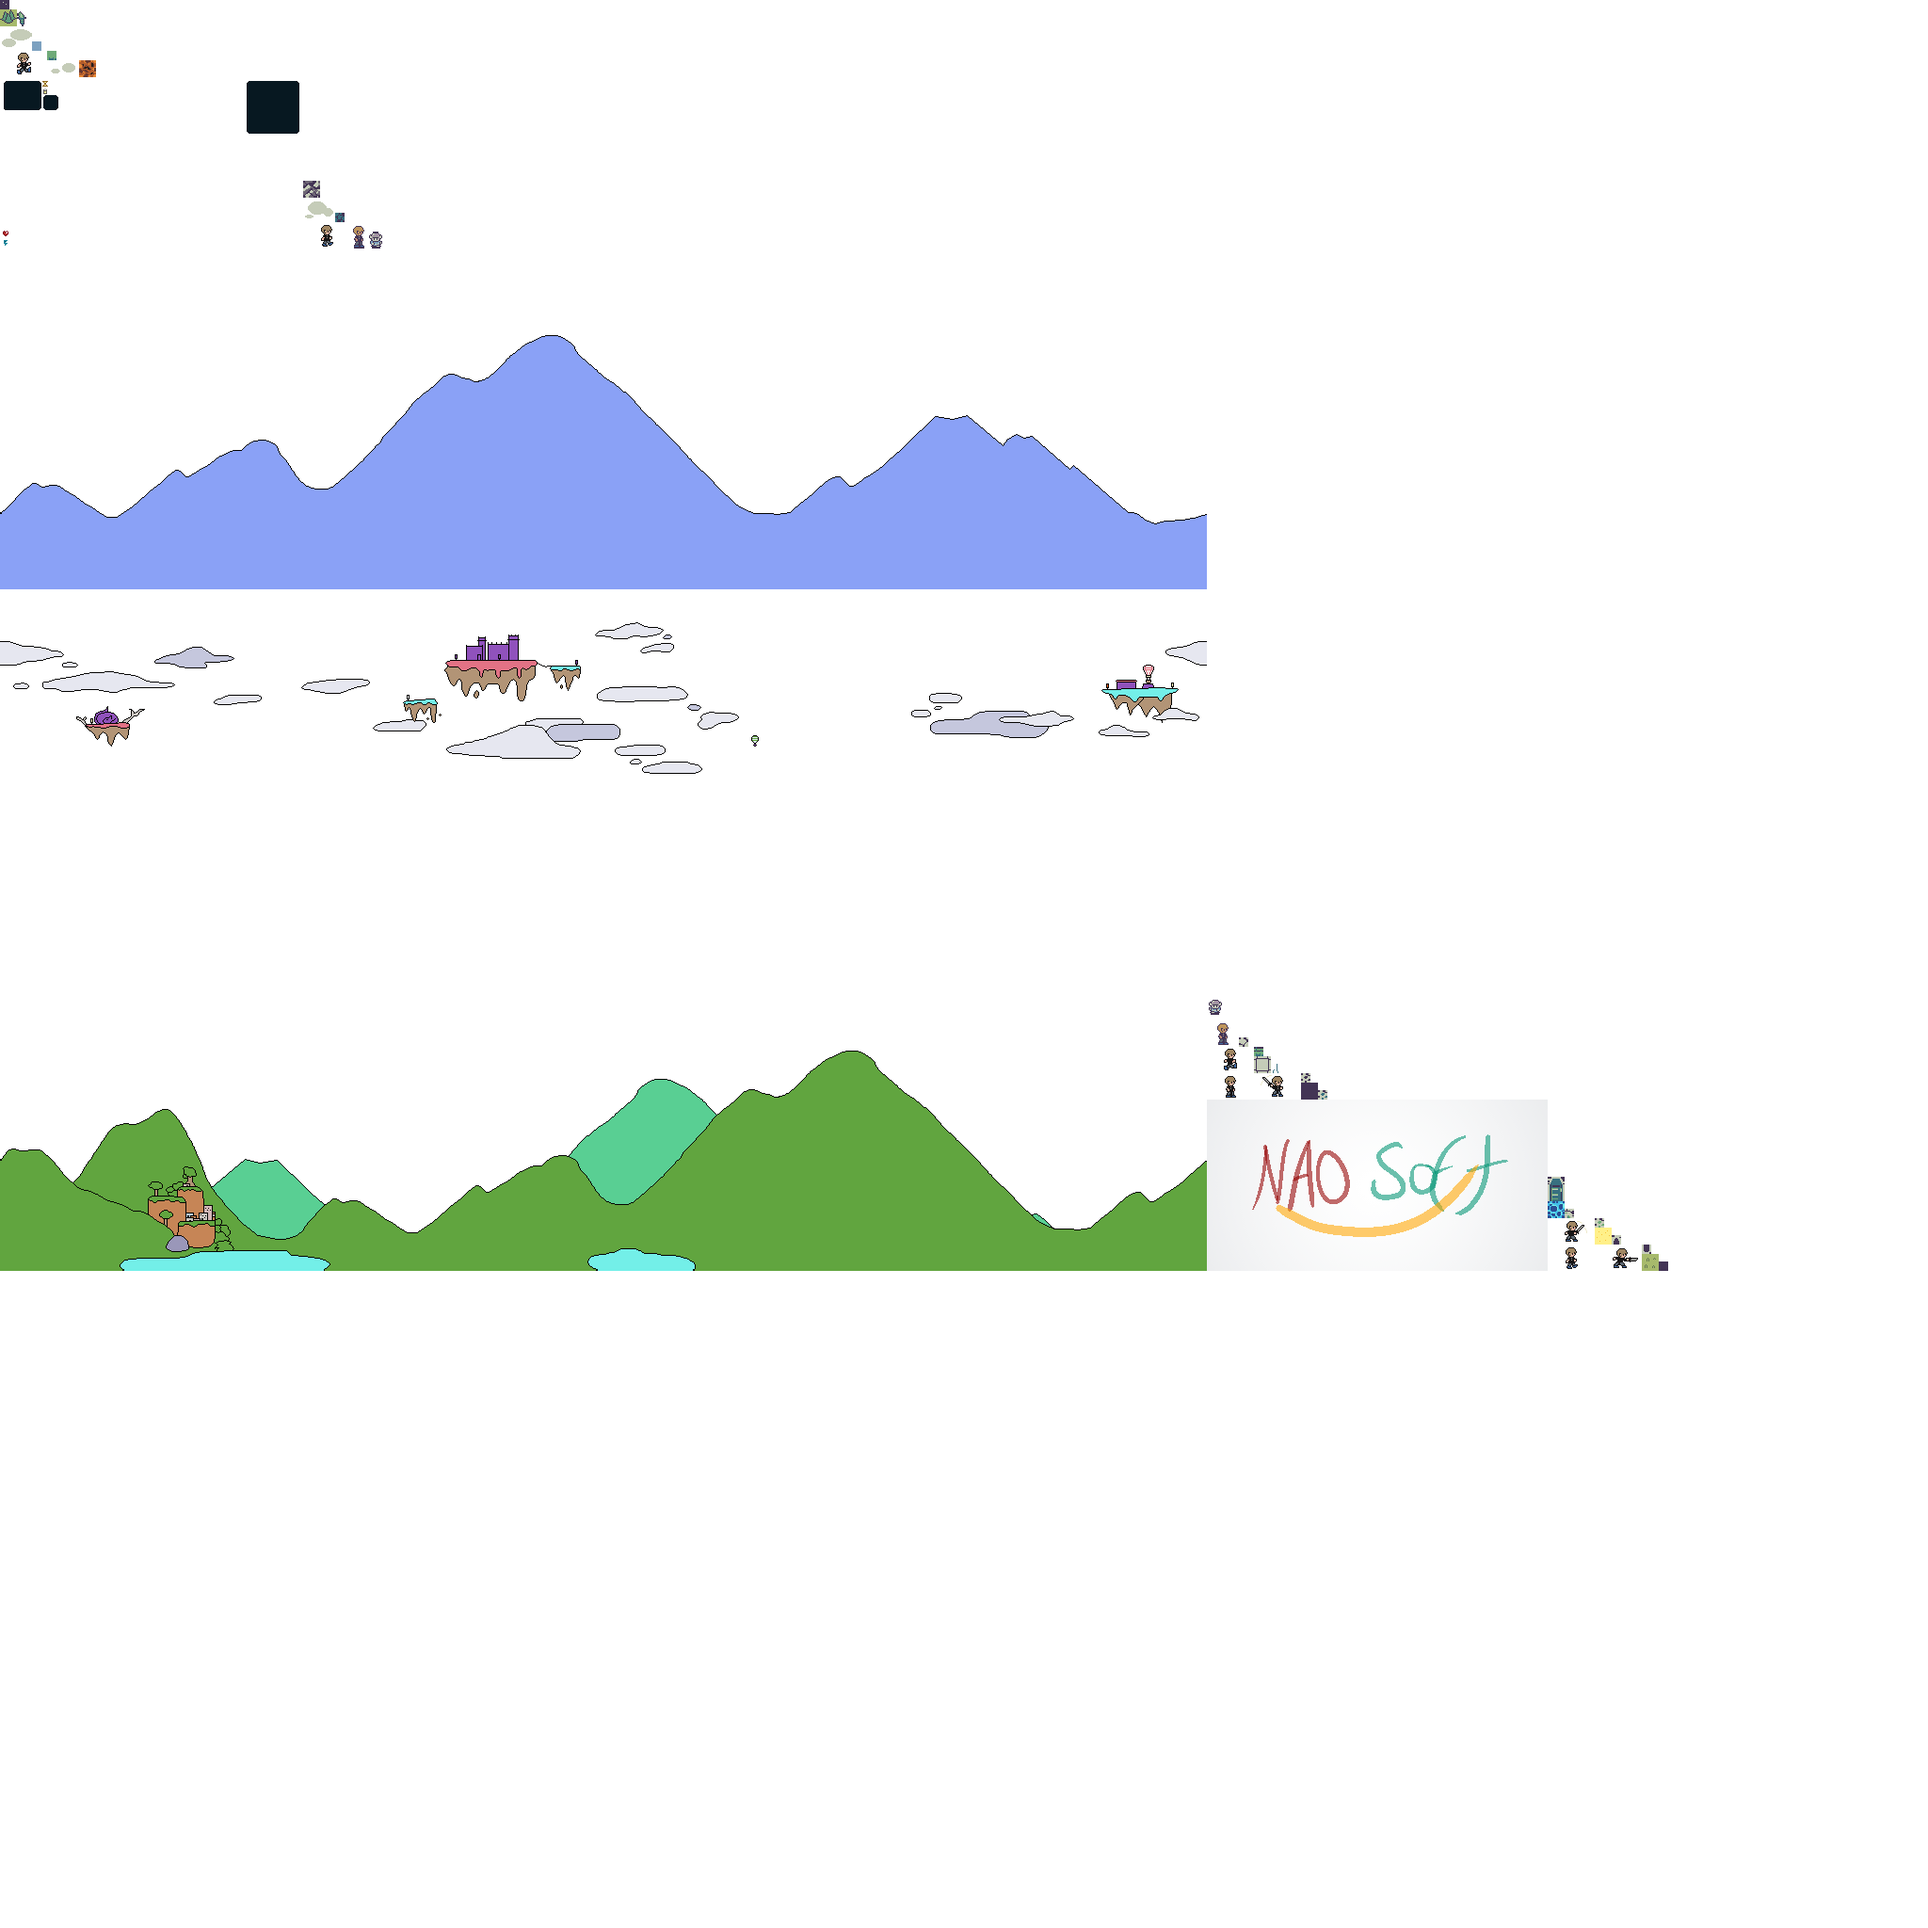
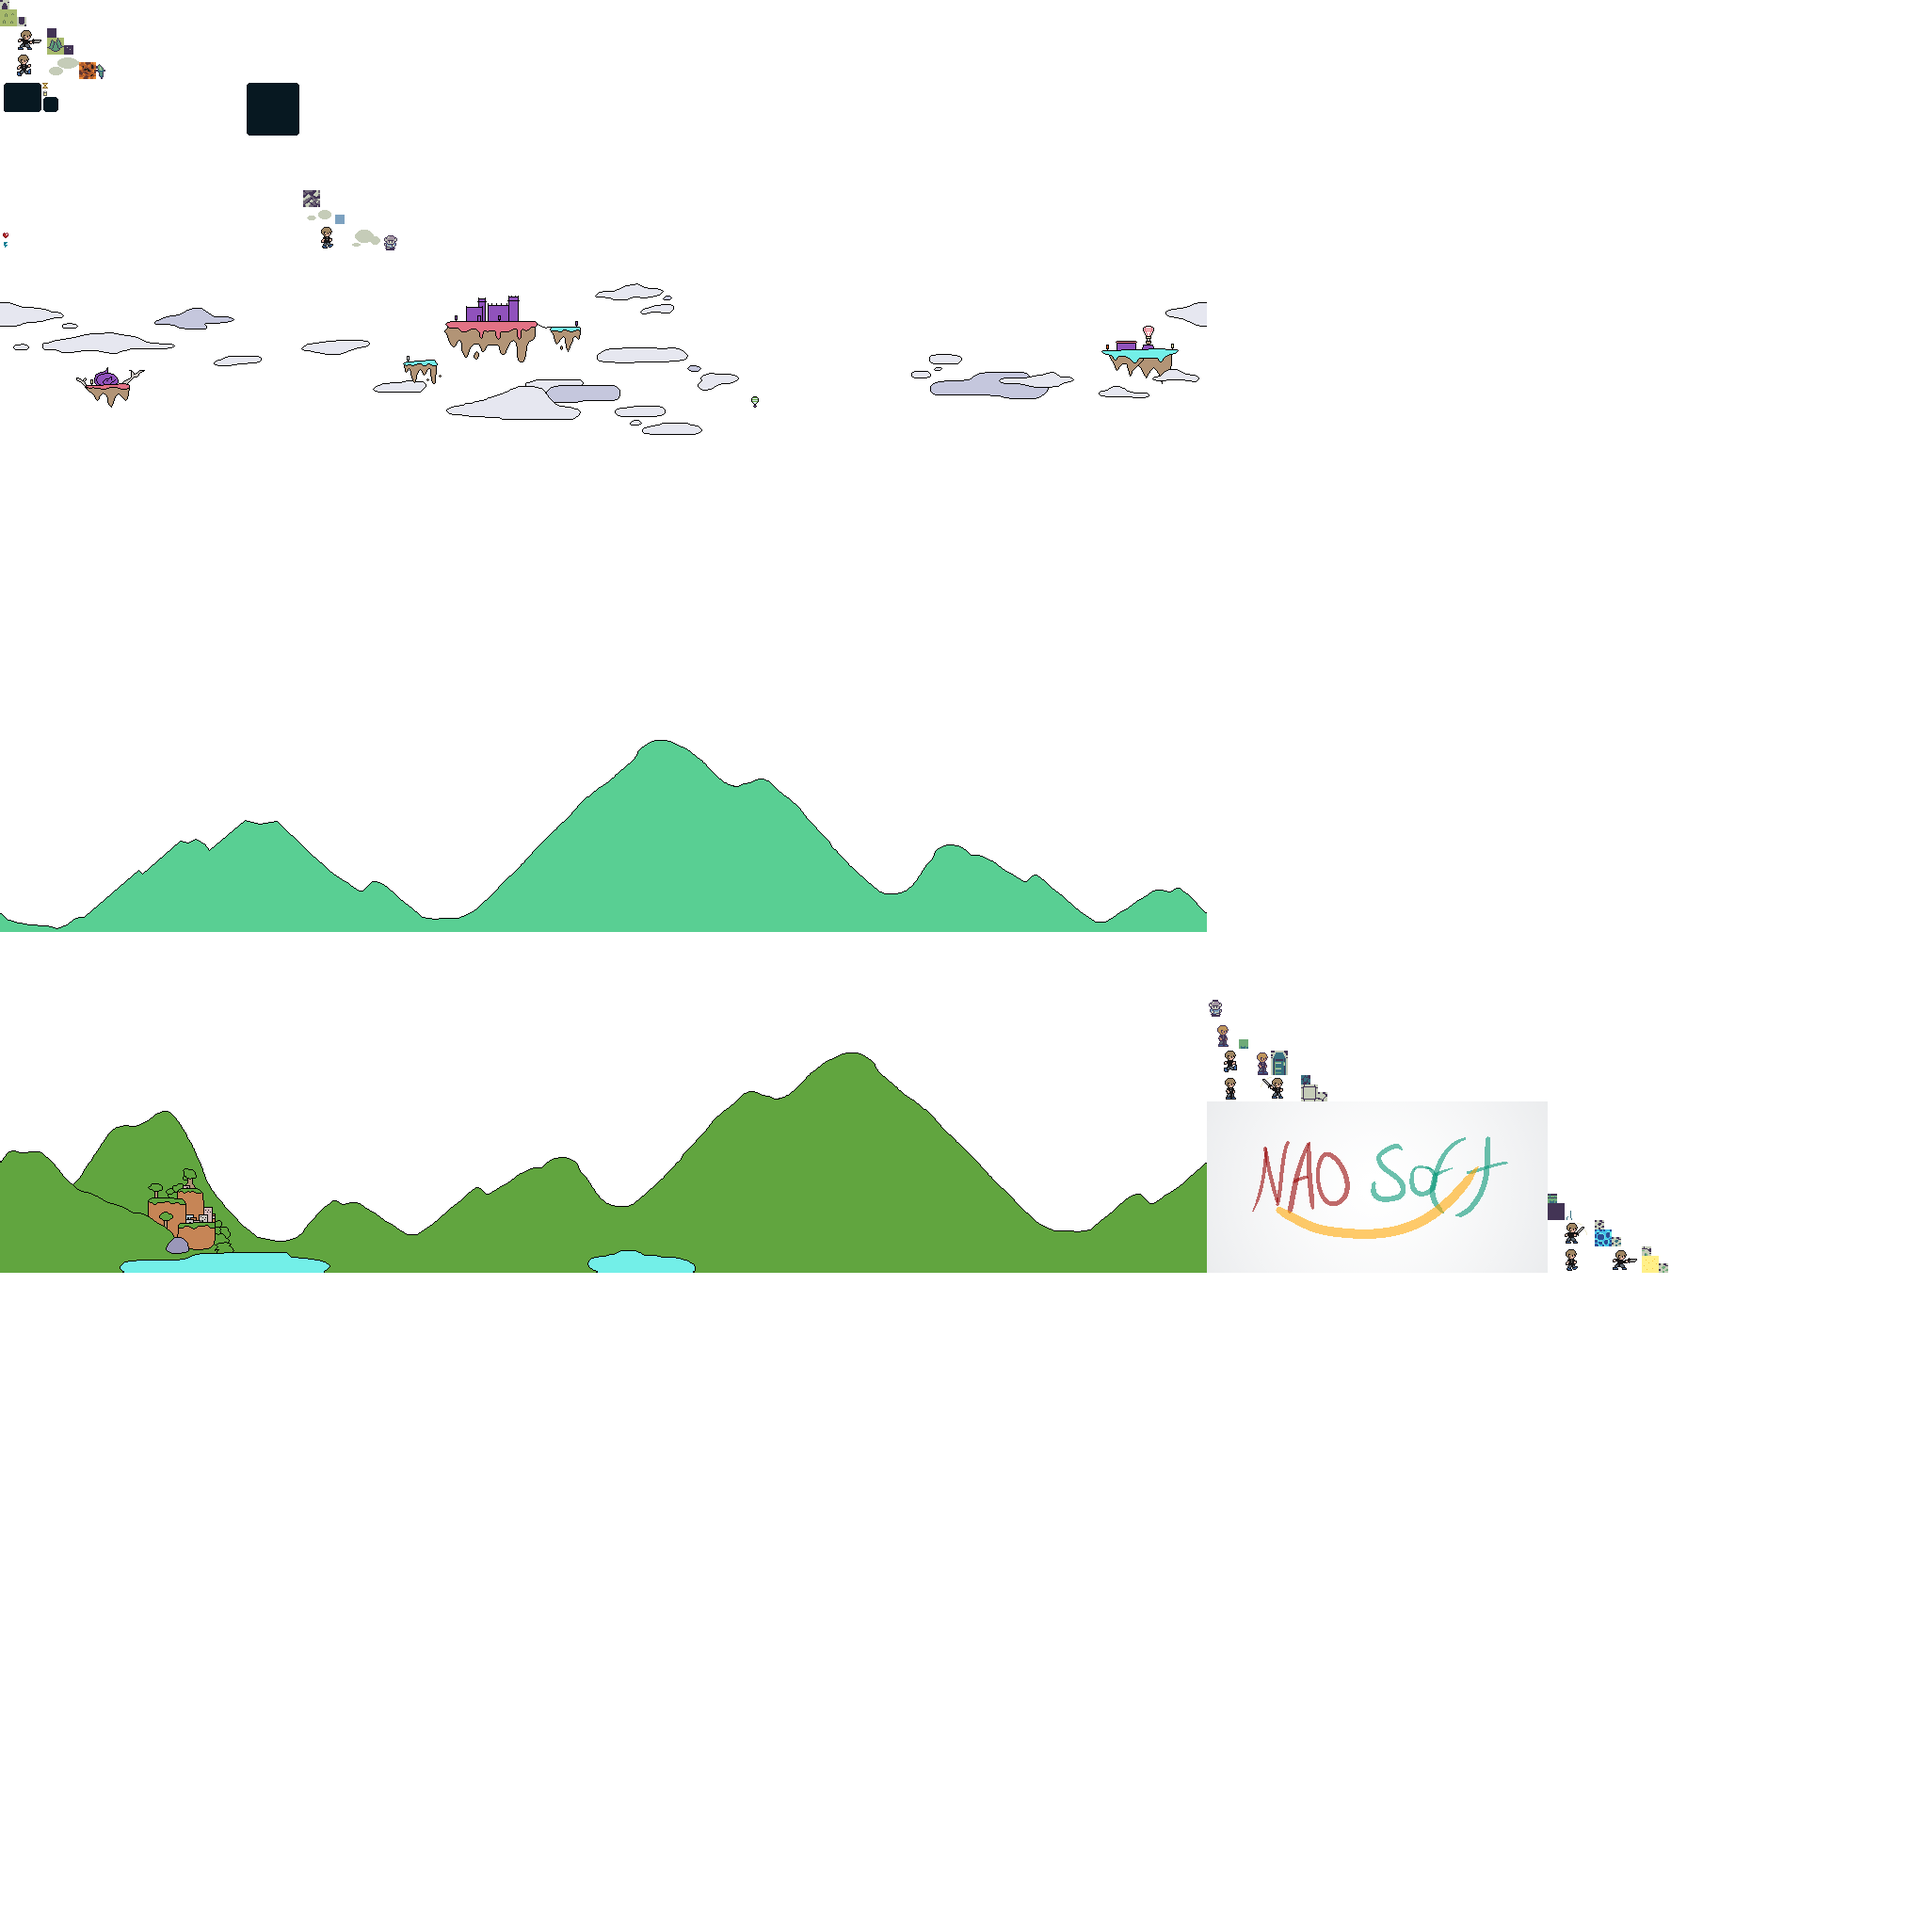
Fixed missing assets
thanks git for not uploading the assets, almost lost them

diff --git a/core/src/dev/fenixsoft/toa/core/states/PhysicsTestState.java b/core/src/dev/fenixsoft/toa/core/states/PhysicsTestState.java
@@ -205,14 +205,14 @@ public class PhysicsTestState extends State{
 
         if(dir.x == -2|| dir.x == 2)
             if (dir.x == -2)
-                playerEntity.render("Entities/Human/Player/run/Run", frame, 18, 1, true);
+                playerEntity.render("Entities/Human/Player/Run/Run", frame, 18, 1, true);
             else
-                playerEntity.render("Entities/Human/Player/run/Run", frame, 18, 1);
+                playerEntity.render("Entities/Human/Player/Run/Run", frame, 18, 1);
         else if(dir.x == -1|| dir.x == 1)
             if (dir.x == -1)
-                playerEntity.render("Entities/Human/Player/run/Run", 0, 18, 1, true);
+                playerEntity.render("Entities/Human/Player/Run/Run", 0, 18, 1, true);
             else
-                playerEntity.render("Entities/Human/Player/run/Run", 0, 18, 1);
+                playerEntity.render("Entities/Human/Player/Run/Run", 0, 18, 1);
     }
 
     public void renderUI(float delta)  {

diff --git a/desktop/src/dev/fenixsoft/toa/desktop/DesktopLauncher.java b/desktop/src/dev/fenixsoft/toa/desktop/DesktopLauncher.java
@@ -30,7 +30,7 @@ public class DesktopLauncher {
 
 		//Pack GUI textures
 		//TODO: Remove this before releasing the game!!!
-		//TexturePacker.process(settings, AssetManager.ASSET_PATH + "rawGUI", AssetManager.ASSET_PATH + "./", "guiAtlas");
+		TexturePacker.process(settings, AssetManager.ASSET_PATH + "rawGUI", AssetManager.ASSET_PATH + "./", "guiAtlas");
 
 		new LwjglApplication(new MainCore(), config);
 	}
